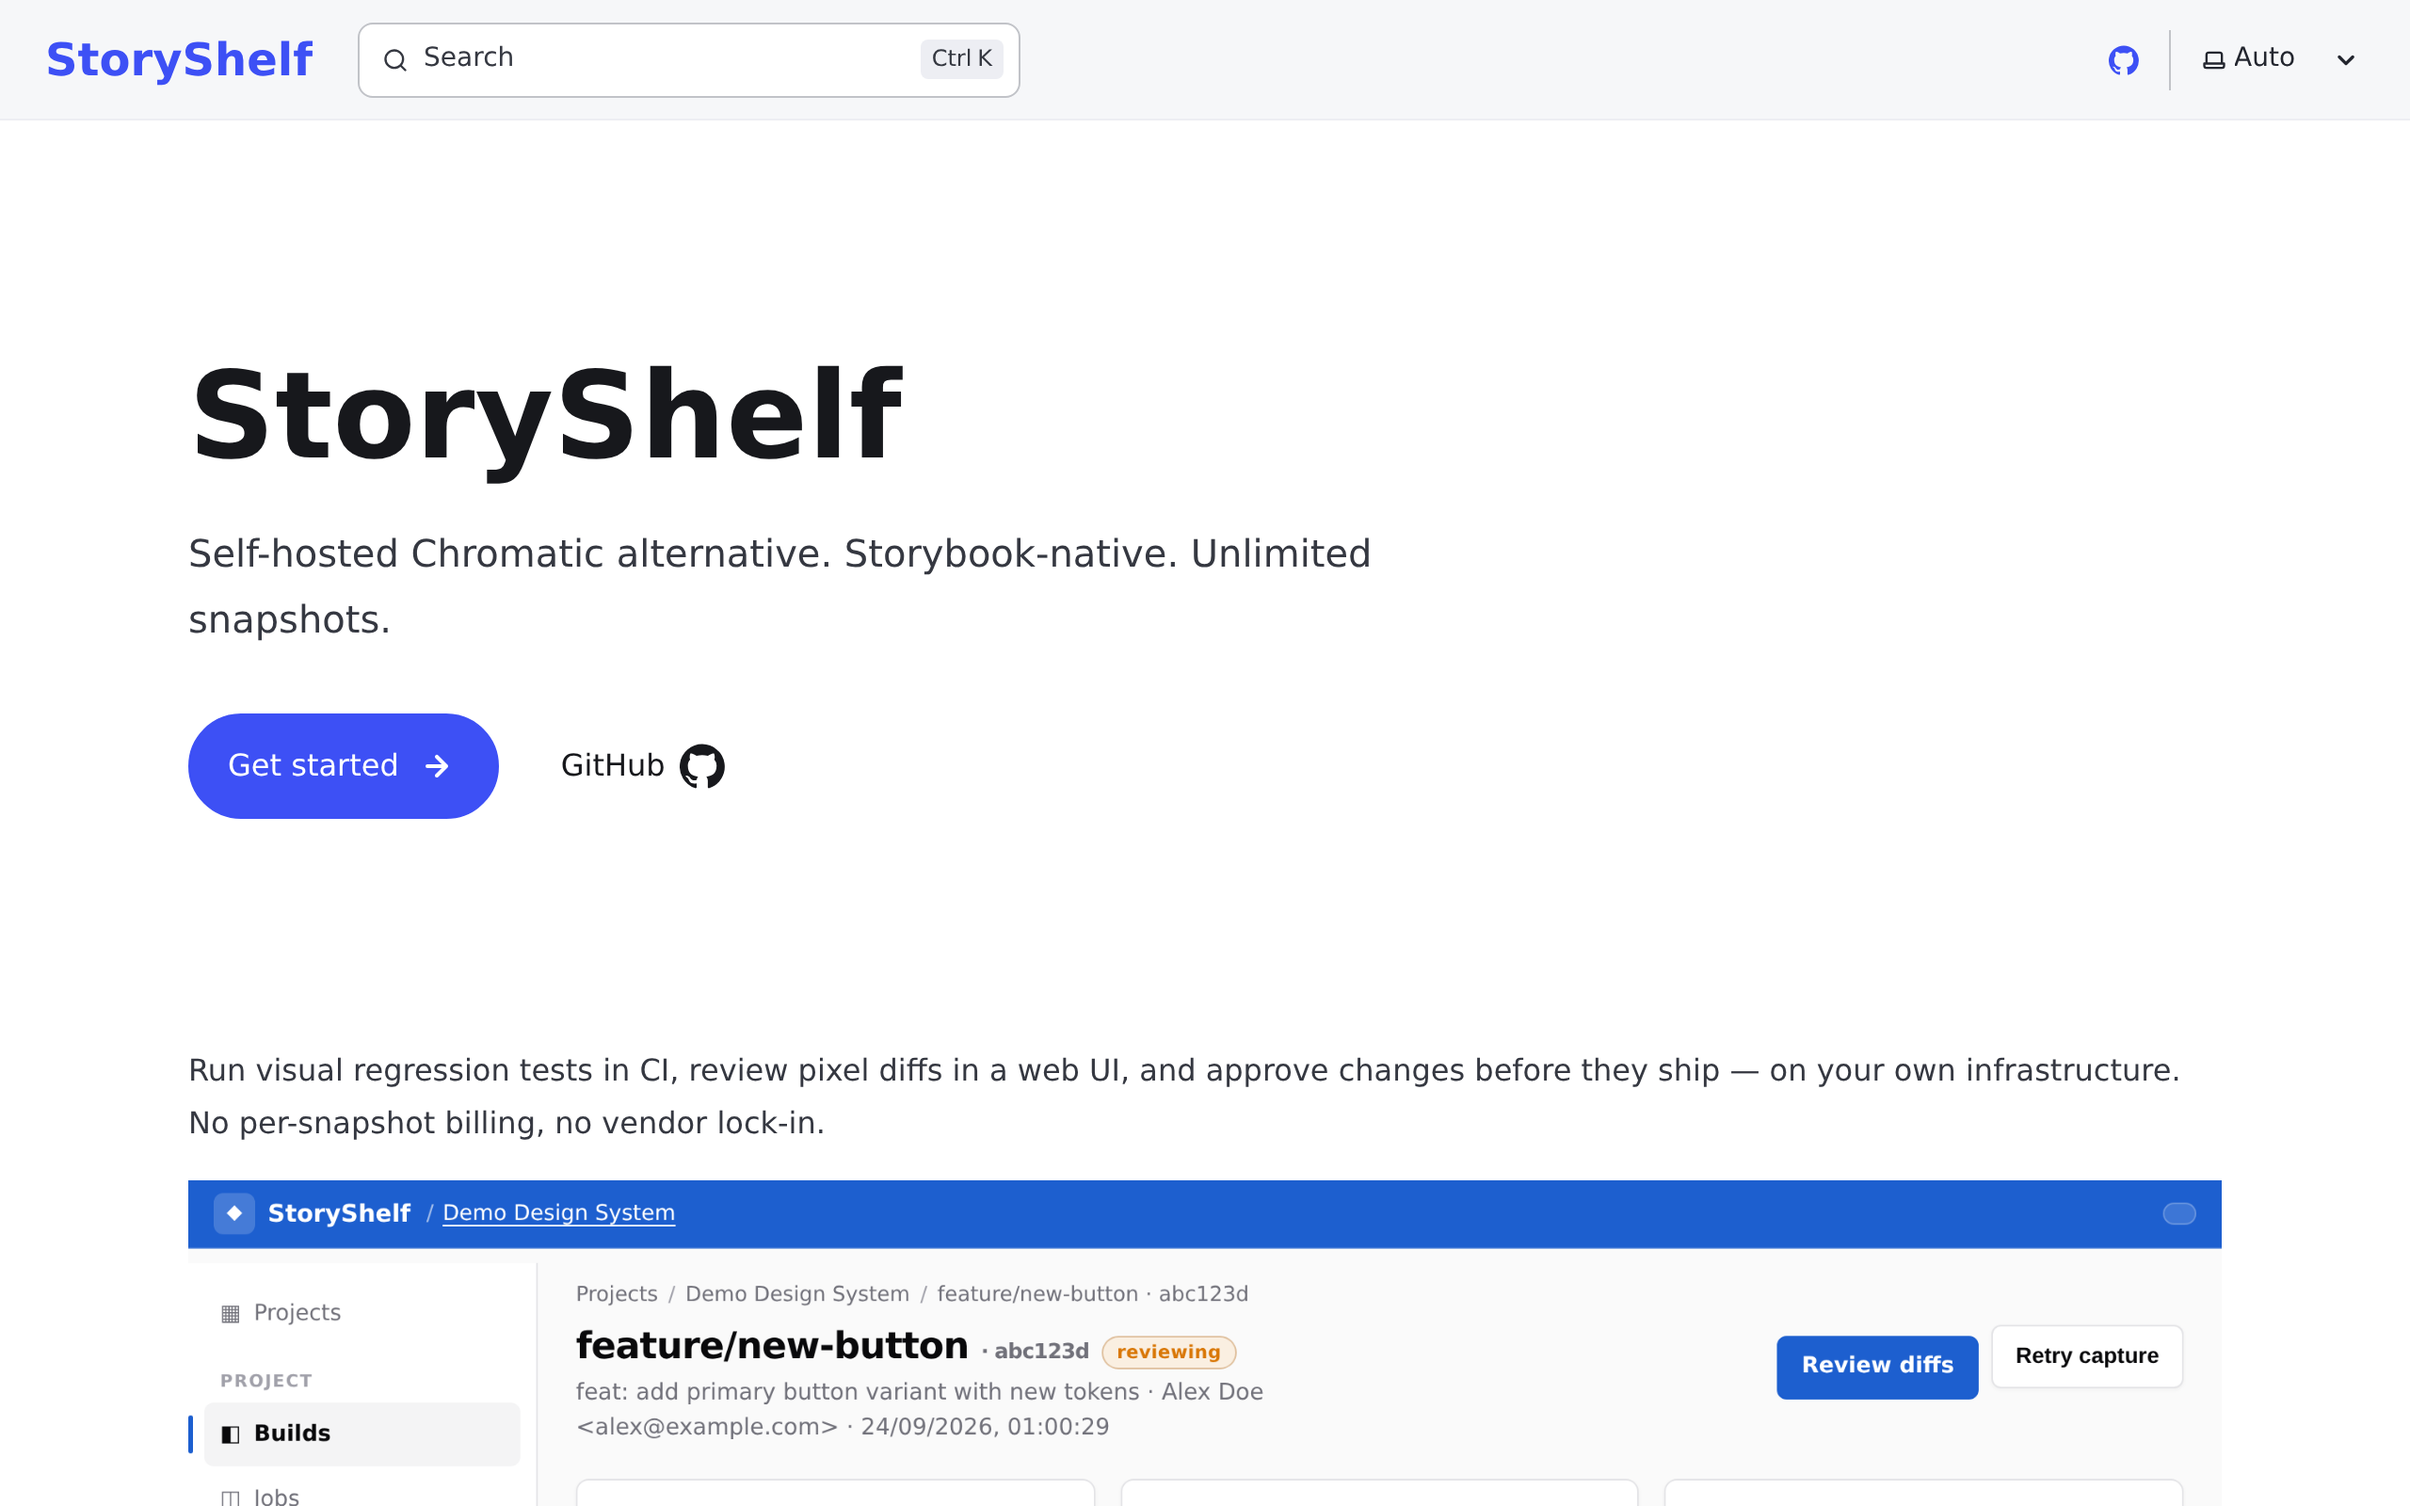
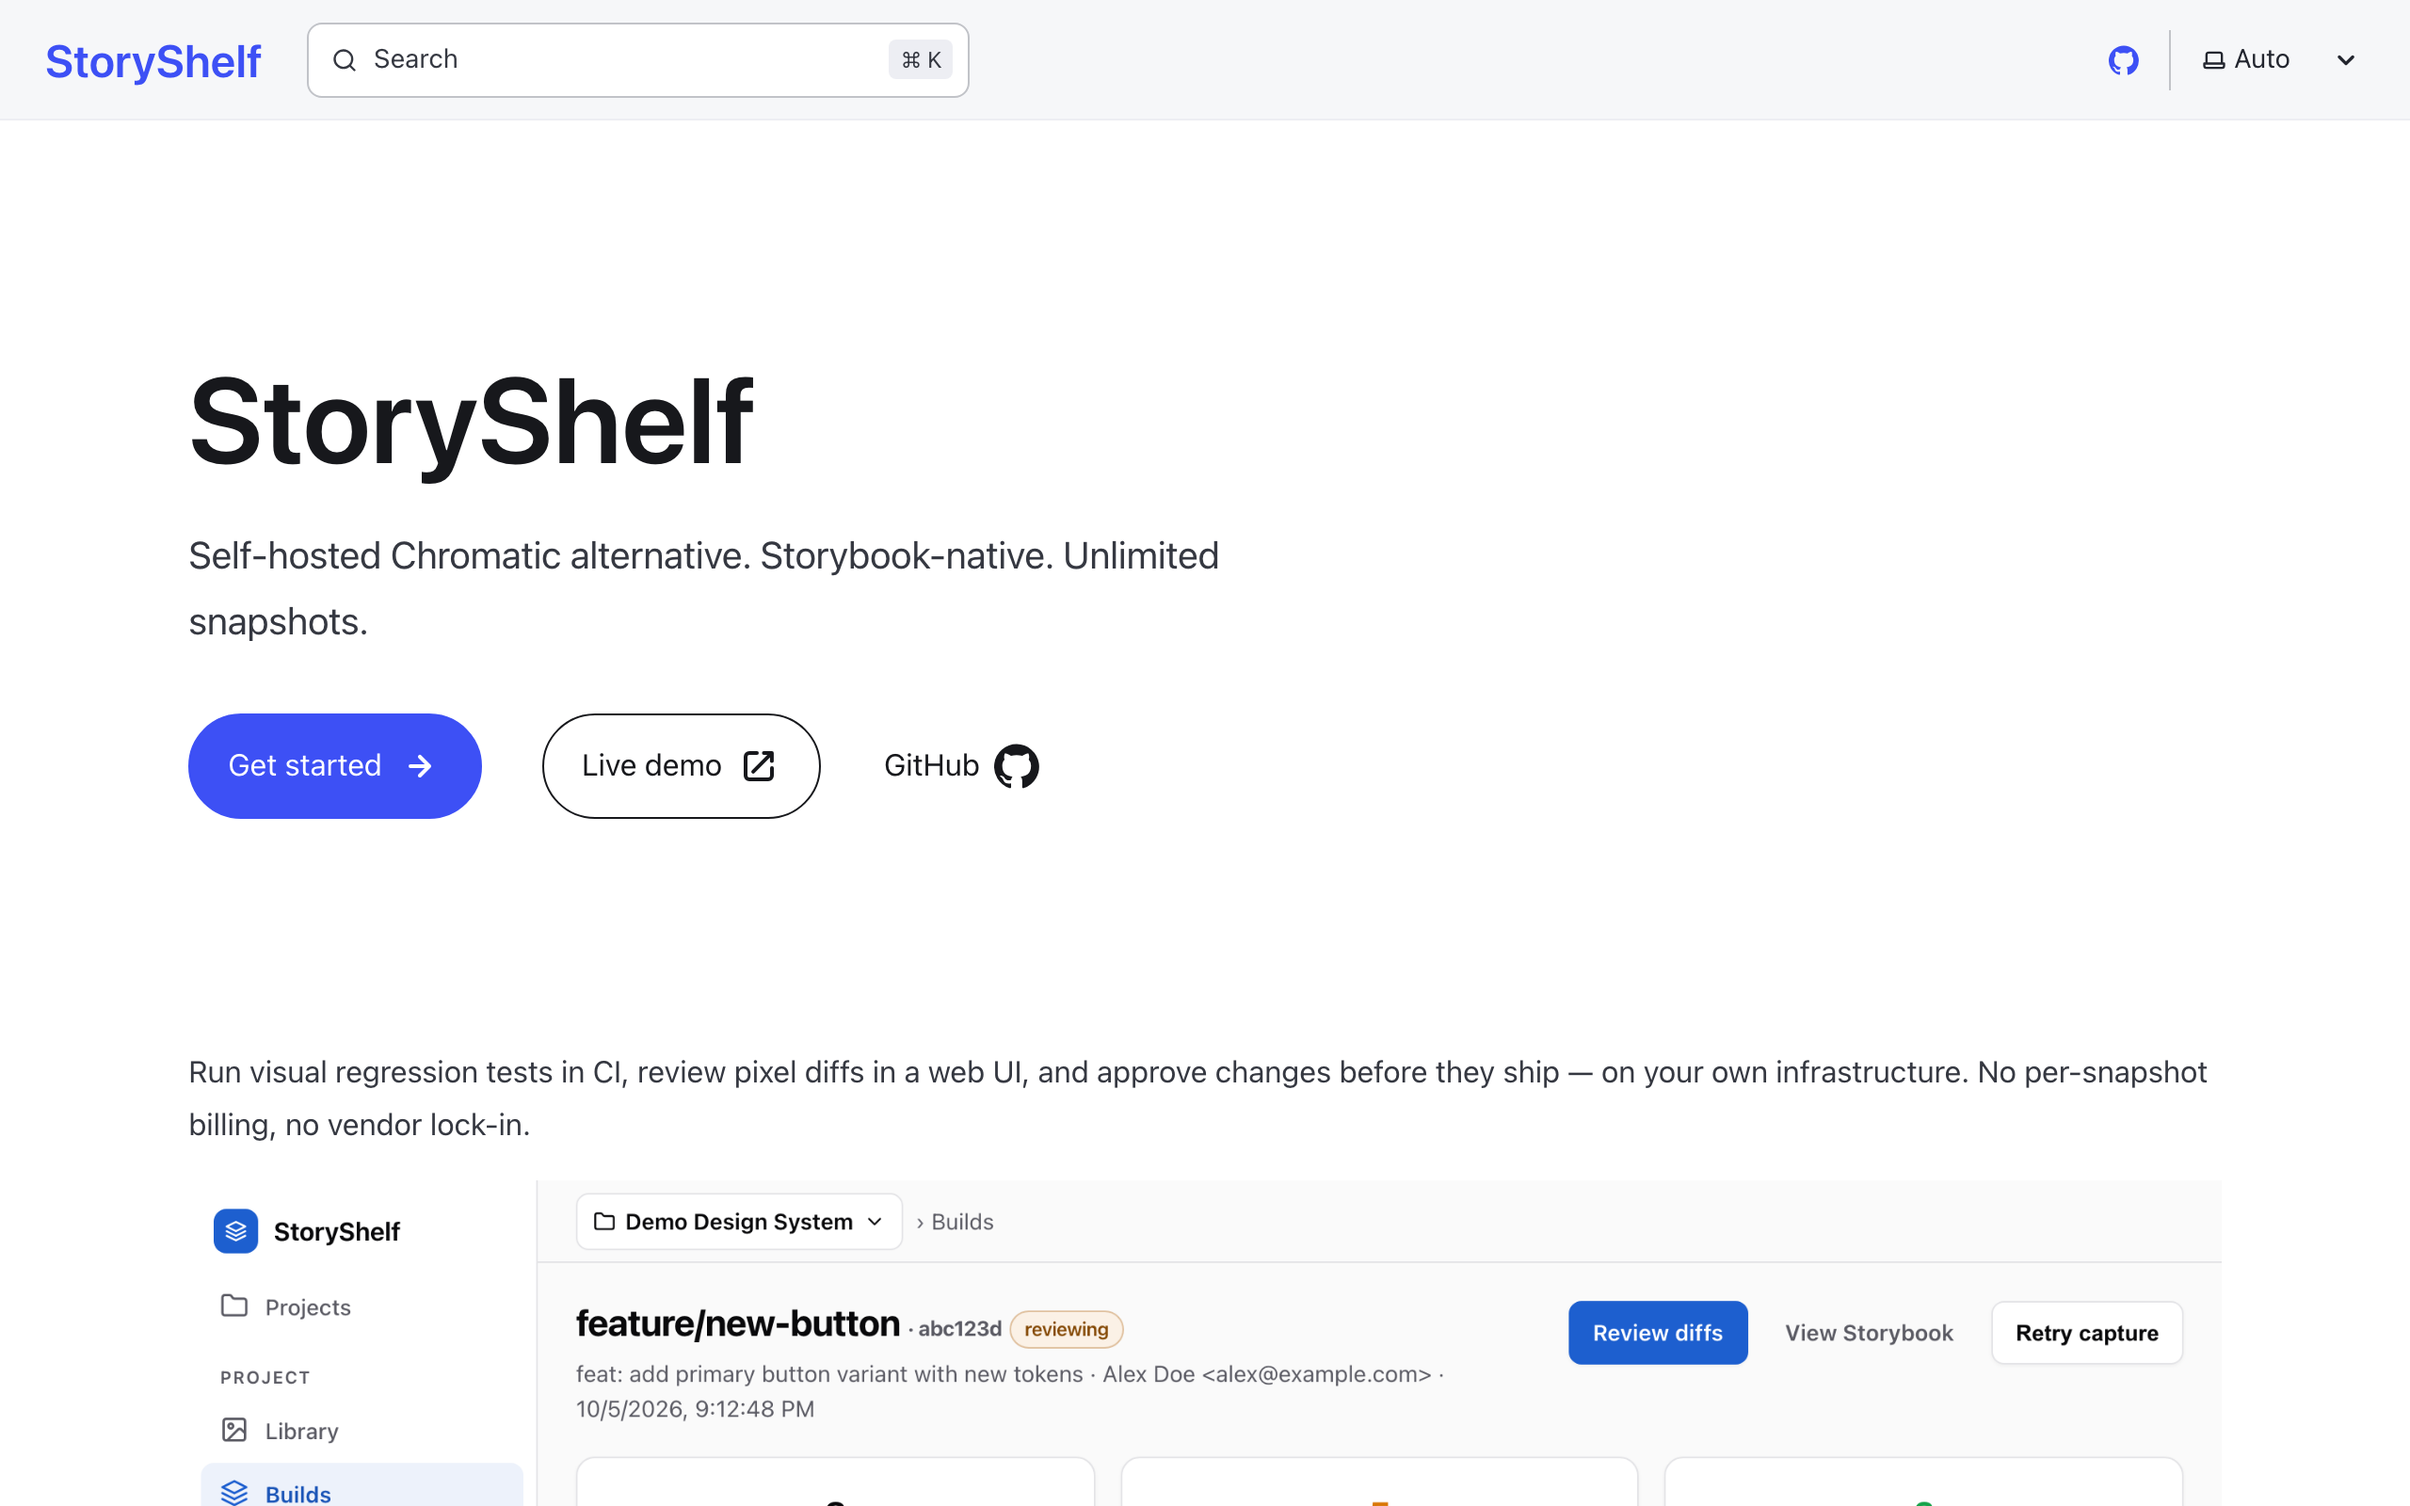
docs: refresh screenshots and review guide for the redesigned UI
- Regenerate projects-list, build-review, diff-review (app script) and
  home-hero (website script) from the current UI
- Review guide describes the filmstrip, comparison modes, action bar and
  shortcuts; architecture.md UI section matches the new shell

diff --git a/docs/architecture.md b/docs/architecture.md
@@ -817,15 +817,15 @@ StoryShelf/
 
 StoryShelf ships a **fixed, server-rendered UI** — `hono/jsx` + HTMX + `hono/css`. No client framework, no UI build step, no pluggable-UI adapter. Custom interfaces are built against `/api/v1` (the same contract the CLI uses, so it cannot be a second-class citizen). See ADR 0012 and ADR 0025 (shell, review workspace, derived brand tokens).
 
-- **Layout:** a branded top **header** (logo + name + accent, project context, theme toggle, user menu) plus a neutral left **sidebar** (Builds, Storybook, Settings). The content area is monochrome and image-first.
+- **Layout:** a full-height icon **sidebar** (brand, project/developer/admin navigation; footer with the account, theme and collapse controls; collapses to a rail, drawer on phones) plus a slim neutral **top bar** (project picker and the page's ancestor breadcrumbs). The customer accent appears only in small places (brand mark, active nav, primary actions, derived tints). The content area is image-first.
 - **Pages** live in `app/src/pages/*.tsx` and render directly from models (no API/UI contract duplication).
 - **Layout & theming** live in `app/src/ui/` — a `DocumentLayout` (head, vendored HTMX, styles) plus a `BrandTheme` of light/dark color tokens.
 - **Theme:** follows the system (`prefers-color-scheme`) with a manual light/dark override, persisted in a cookie so the server renders the correct theme on first paint.
 - **Brand config** is passed as `ui: { name, logo, favicon, theme }` to `createShelfApp` (see `ShelfOptions`). Env vars (`SS_BRAND_NAME`, `SS_LOGO_URL`) supply defaults so self-hosters can rebrand with a `docker run`, no code.
-- **Auth UI text** lives in `ui.auth` (title, subtitle, password label/placeholder, submit label, `{label}` SSO template, help/footer) with `SS_AUTH_*` env defaults; the header user menu links to the personal `/profile` page (editable display name, local password change, memberships).
+- **Auth UI text** lives in `ui.auth` (title, subtitle, password label/placeholder, submit label, `{label}` SSO template, help/footer) with `SS_AUTH_*` env defaults; the sidebar account menu links to the personal `/profile` page (editable display name, local password change, memberships).
 - **Public base URL** (`config.publicBaseUrl`, `PUBLIC_BASE_URL`) pins the issuer in the `/.well-known/openid-configuration` relying-party helper; otherwise the request origin is used.
 - **HTMX is vendored locally** (no CDN), so air-gapped deployments work.
-- **Diff view (v1):** a simple three-up grid — baseline | current | diff overlay. A minimal vanilla-JS layer in `app/src/ui/document.tsx` (the inline `clientScript`) covers the theme toggle and keyboard approve/reject; the wipe slider and zoom are deferred to v2. The published-Storybook page is an `<iframe>` of Storybook's own static build.
+- **Review workspace:** a snapshot filmstrip with filters and progress, and a comparison stage with side-by-side, swipe, onion-skin, diff and flip modes plus zoom; a sticky action bar approves/rejects and auto-advances to the next open snapshot (keyboard: `j`/`k`, `a`/`r`, `1`–`5`, `f`, `t`, `?`). A small vanilla-JS layer (`app/src/ui/shell/*-script.ts`, idempotent across HTMX body swaps) covers the shell and review behaviour. The published-Storybook page is an `<iframe>` of Storybook's own static build.
 
 ## Deployment
 

diff --git a/apps/website/src/content/docs/guides/review.md b/apps/website/src/content/docs/guides/review.md
@@ -5,9 +5,15 @@ description: Approve, reject, comment, and retry — the build review flow that 
 
 Every build lands in `reviewing` once diffing finishes (default-branch builds auto-approve). Review is per-snapshot; the build gate is the merge gate.
 
-![Diff review — snapshot navigator, baseline | current | diff viewer, and comment thread](/screenshots/diff-review.png)
+![Diff review — snapshot filmstrip, baseline | current | diff comparison, and the action bar](/screenshots/diff-review.png)
 
-The review bar stays pinned while scrolling, with the snapshot title, status, and Approve/Reject actions. The `Split | Baseline | Current | Diff` switcher focuses a single pane for large screenshots; keyboard shortcuts (`←`/`→` navigate, `a` approve, `r` reject) work throughout.
+The review page is a workspace:
+
+- **Filmstrip** (left): a thumbnail per snapshot with its status and diff size, filterable to *Needs review*, *All* or *Done*. The header shows how many changes you have reviewed.
+- **Comparison** (centre): *Side by side*, *Swipe* (drag a divider), *Onion skin* (blend baseline and current), *Diff* (the overlay alone) and *Flip* (toggle between baseline and current), with *Fit / 100% / 200%* zoom. Panes scroll together, and your mode and zoom are remembered.
+- **Action bar** (pinned at the bottom): previous/next, **Approve** and **Reject**. Deciding a snapshot moves you straight to the next one that still needs review.
+
+Keyboard: `j`/`k` (or `→`/`←`) move between snapshots, `a` approves, `r` rejects, `1`–`5` pick a comparison mode, `f` cycles zoom, `t` flips baseline/current, and `?` lists them all. **Approve all** and **Reject all** in the header ask for confirmation first.
 
 ## Approve / reject
 
